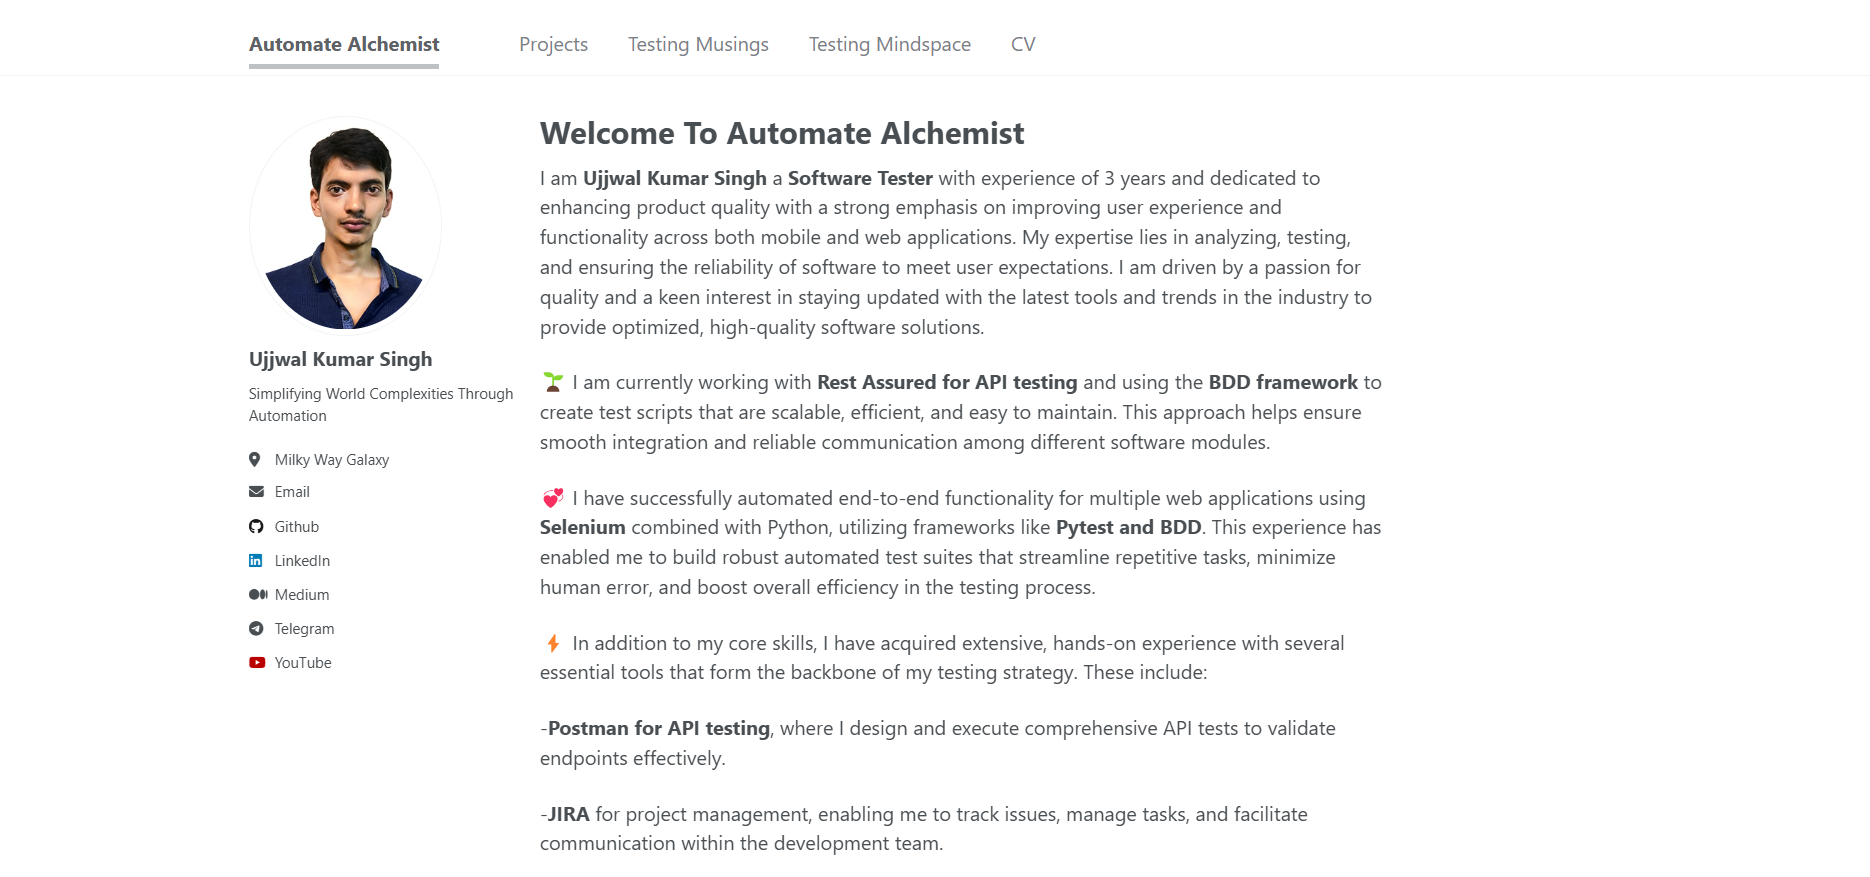
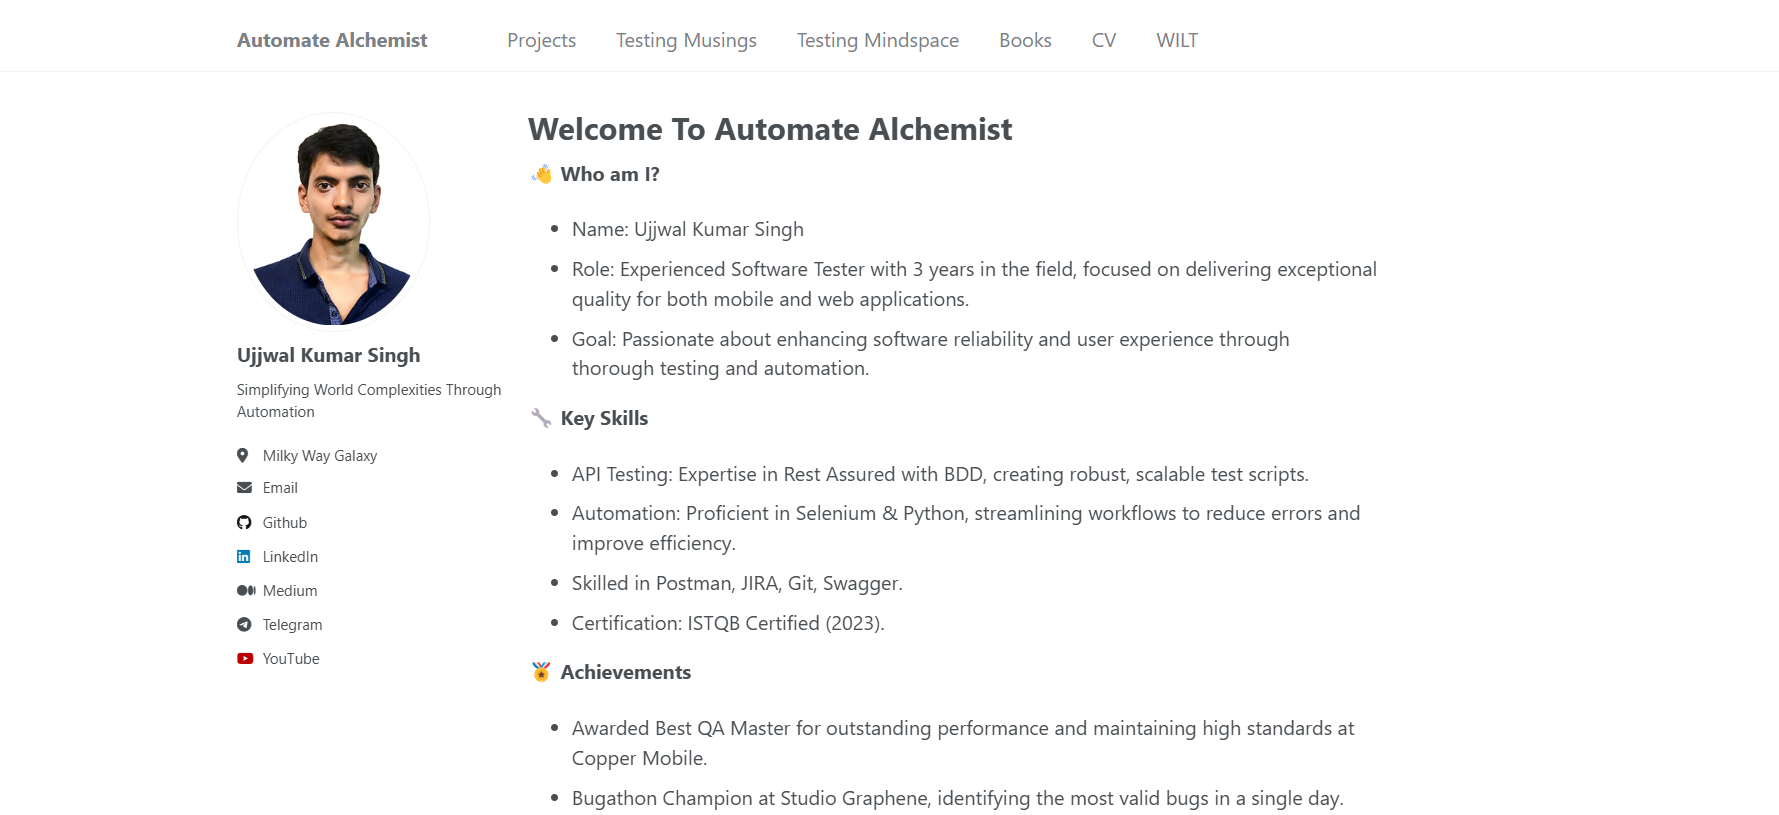
Few small changes.

diff --git a/_pages/about.md b/_pages/about.md
@@ -11,8 +11,8 @@ redirect_from:
 👋 Who am I?</b>
 
 * Name: Ujjwal Kumar Singh
-* Role: Experienced Software Tester with 3 years in the field, focused on delivering exceptional quality for both mobile and web applications.
-* Goal: Passionate about enhancing software reliability and user experience through thorough testing and automation.
+* Role: A Software Tester with 3 years in the testing field, focused on delivering exceptional quality for both mobile and web applications.
+* Goal: Elevating software reliability and user satisfaction by solving complex challenges with innovative testing strategies and automation.
 
 <b>
 🔧 Key Skills </b>
@@ -25,9 +25,10 @@ redirect_from:
 <b>🏅 Achievements </b>
 
 * Awarded Best QA Master for outstanding performance and maintaining high standards at Copper Mobile.
+* Awarded Call Of Duty Award for 
 * Bugathon Champion at Studio Graphene, identifying the most valid bugs in a single day.
 
-</b>📢 Community Engagement</b>
+<b>📢 Community Engagement</b>
 
 * Active Ministry of Testing contributor, sharing insights and best practices.
 * Creator of QA content on YouTube and Medium, offering tips and tutorials on automation and testing skills.
